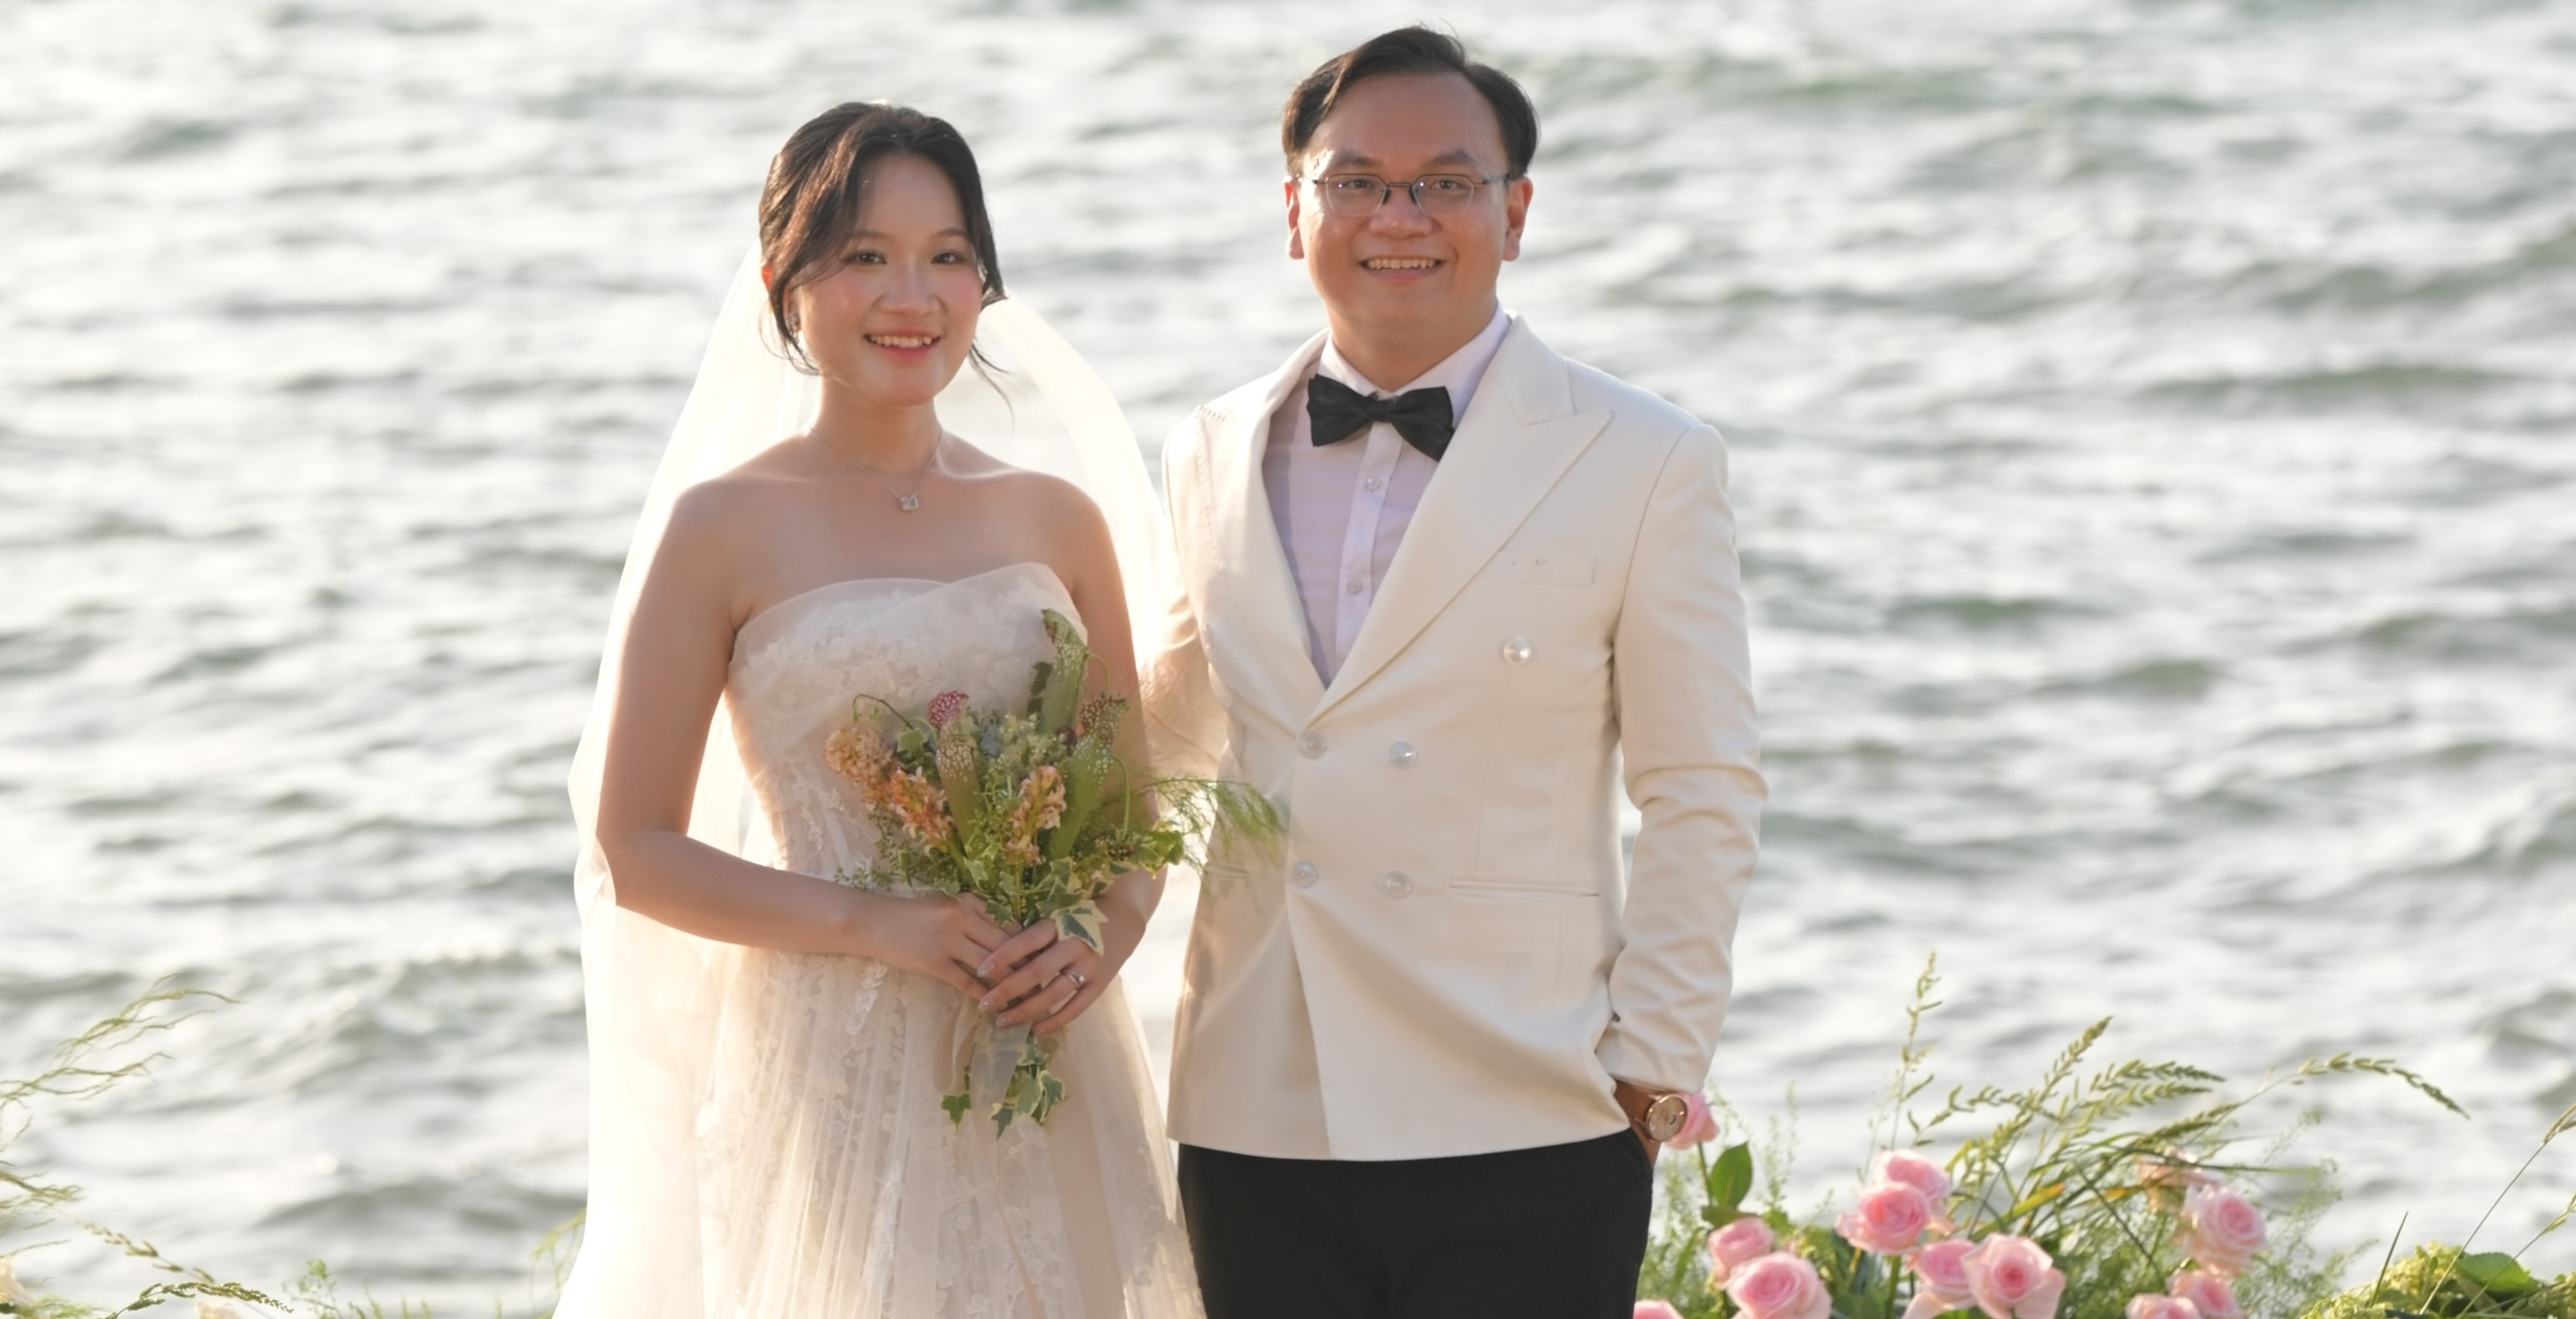
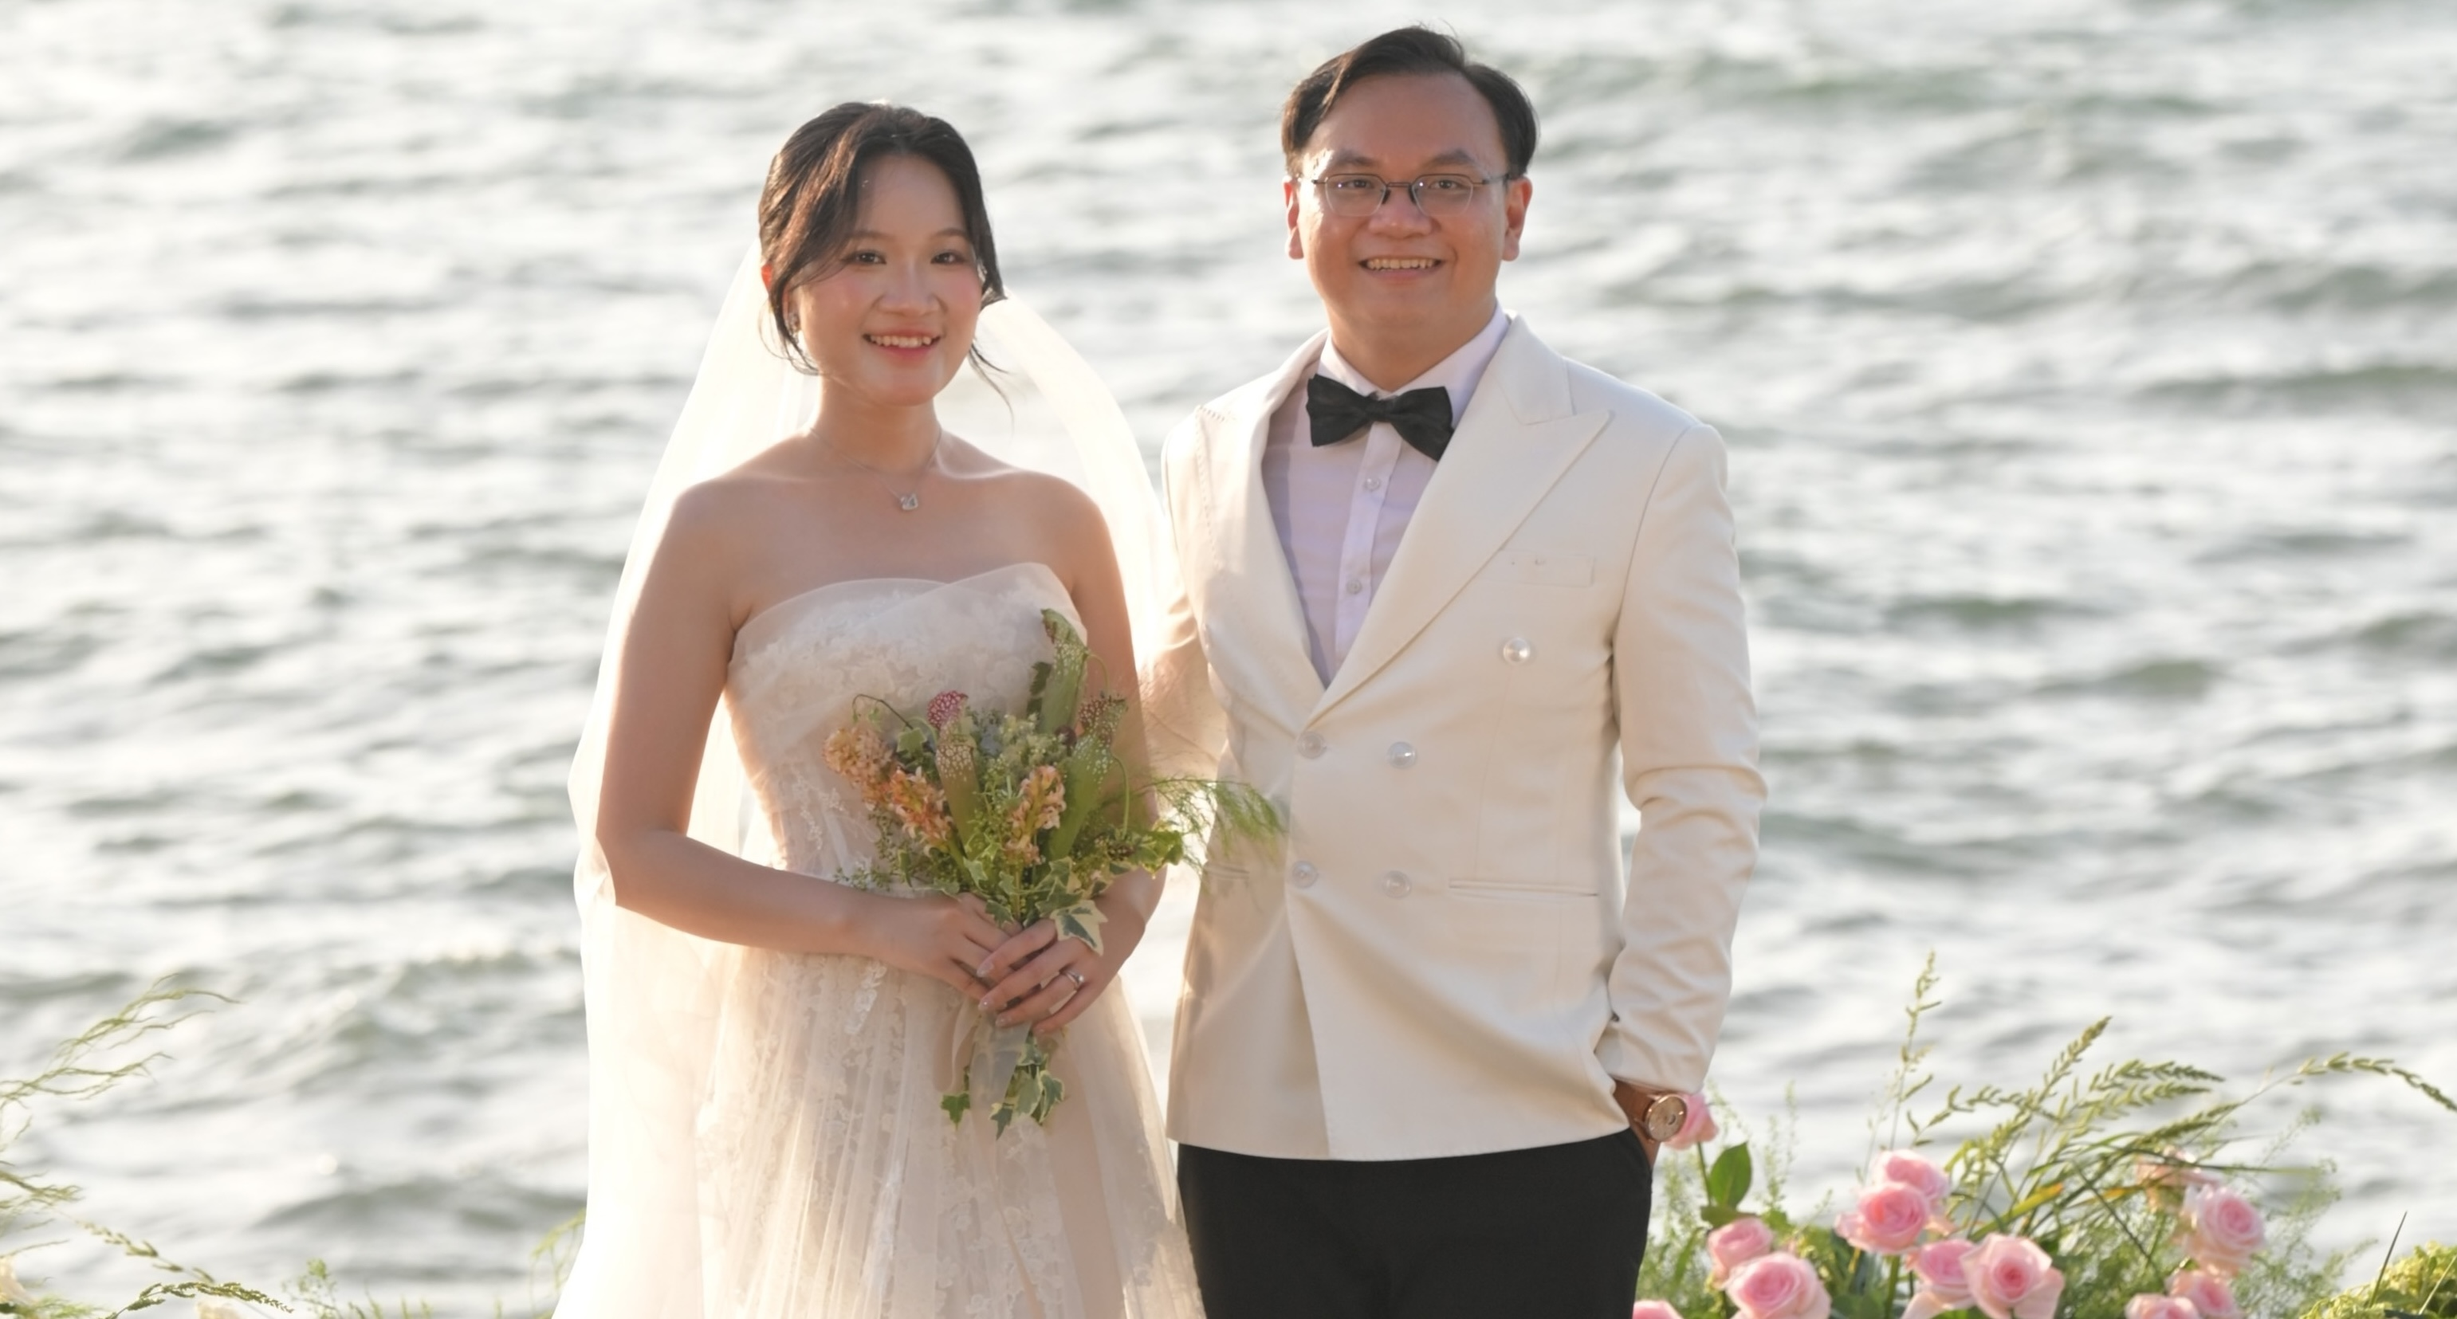
Update og-cover with new crop (3082x1655)

diff --git a/pages/index.jsx b/pages/index.jsx
@@ -12,7 +12,7 @@ const InvitationApp = dynamic(() => import('../components/app/InvitationApp'), {
 });
 
 const SITE_URL = 'https://phat-duyen-wedding.vercel.app';
-const OG_IMAGE = `${SITE_URL}/assets/images/og-cover.jpg`; // 3230x1655, full-res cover photo (uncompressed)
+const OG_IMAGE = `${SITE_URL}/assets/images/og-cover.jpg`; // 3082x1655, cropped cover photo
 const TITLE = 'Hữu Phát & Mỹ Duyên — Thiệp cưới · 07.11.2026';
 const DESCRIPTION =
   'Trân trọng kính mời bạn đến dự lễ cưới của Hữu Phát & Mỹ Duyên — Thứ Bảy, 07/11/2026, 18:30, Sảnh BallRoom, Tầng 3 Khách sạn Caravelle.';
@@ -83,7 +83,7 @@ export default function ReactInvitation() {
         <meta property="og:image" content={OG_IMAGE} />
         <meta property="og:image:secure_url" content={OG_IMAGE} />
         <meta property="og:image:type" content="image/jpeg" />
-        <meta property="og:image:width" content="3230" />
+        <meta property="og:image:width" content="3082" />
         <meta property="og:image:height" content="1655" />
         <meta property="og:image:alt" content="Hữu Phát & Mỹ Duyên" />
         <meta property="og:locale" content="vi_VN" />
